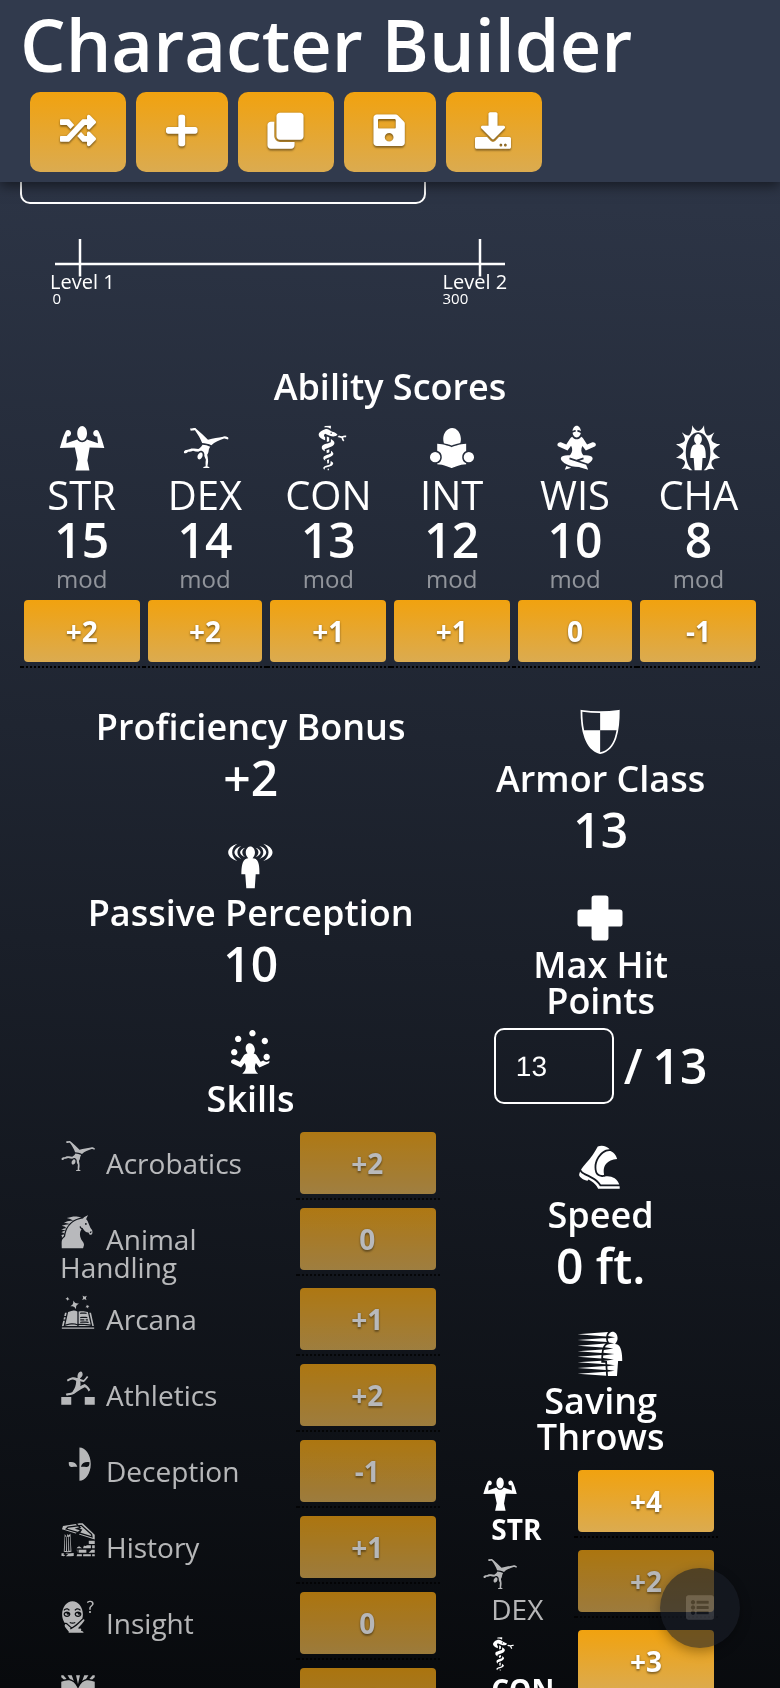
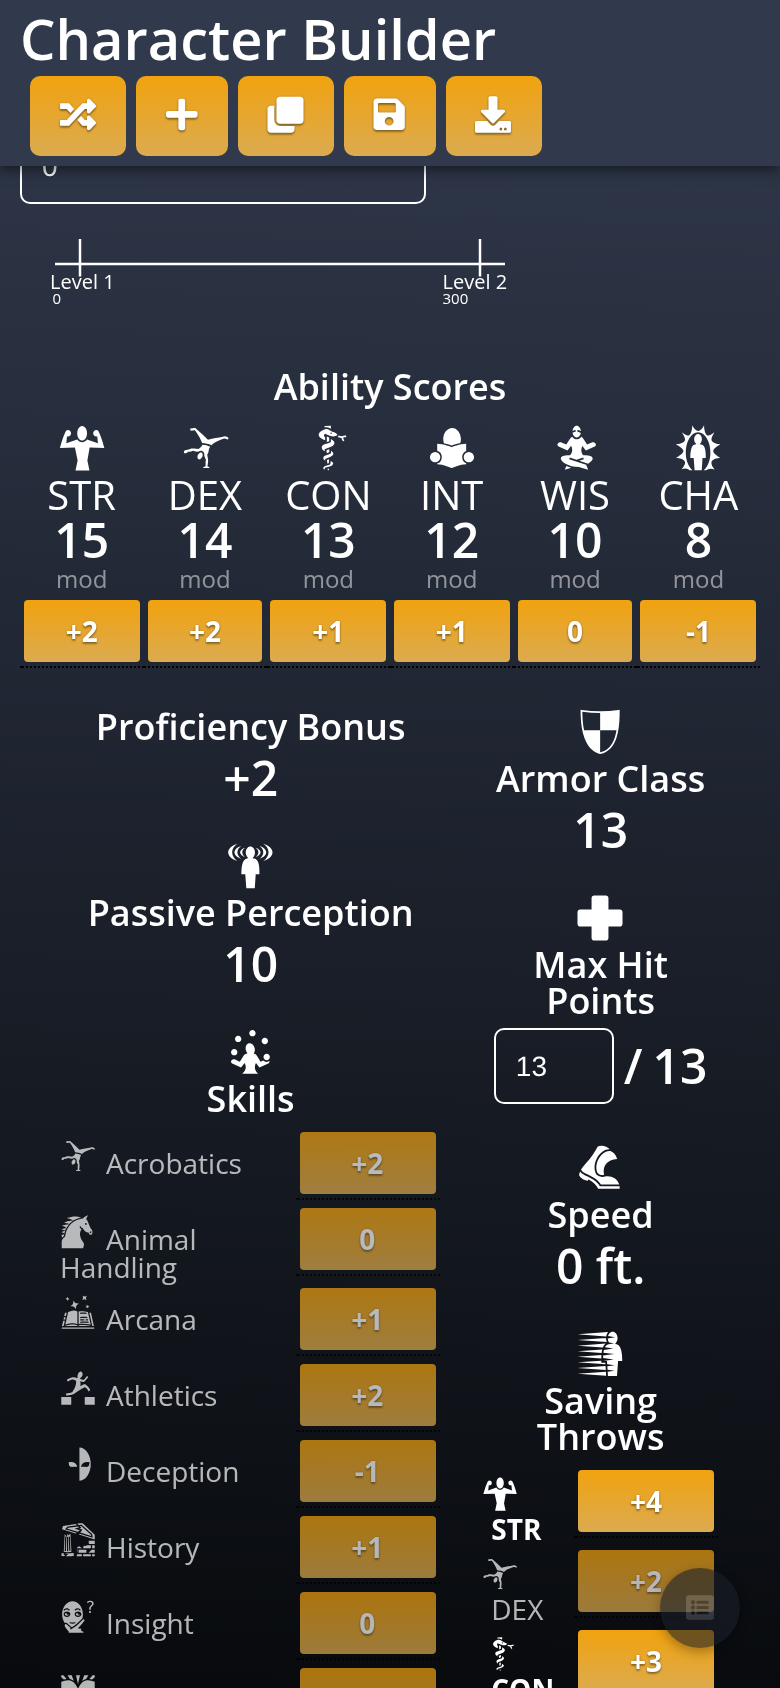
Capture the tidied phone header, and refresh the phone layout shots

Changed region(s): [[0.0308, 0.0, 0.8, 0.1232]]

diff --git a/docs/design/style-guide/round15.html b/docs/design/style-guide/round15.html
@@ -1,0 +1,85 @@
+<title>Phone Header</title>
+<link rel="stylesheet" href="https://fonts.googleapis.com/css2?family=Open+Sans:wght@400;600;700&family=Vollkorn:ital,wght@1,400&display=swap">
+<style>
+/* Layout: one column; each option is a row of real-app captures (desktop, then phone), with a theme switch that swaps every capture at once. */
+:root {
+  --bg: #0e131a; --card: #131924; --fg: #ebeef4; --dim: #8b95a5; --accent: #f0a100;
+  --accent-soft: rgba(240,161,0,0.10); --line: rgba(255,255,255,0.08); --good: #6fbf73; --good-soft: rgba(111,191,115,0.12);
+  --serif: 'Vollkorn', Georgia, serif; --sans: 'Open Sans', system-ui, sans-serif;
+  color-scheme: dark;
+}
+@media (prefers-color-scheme: light) { :root:not([data-theme="dark"]) {
+  --bg: #eef0f3; --card: #fff; --fg: #363636; --dim: #6b7280; --accent: #33658A;
+  --accent-soft: rgba(51,101,138,0.08); --line: rgba(0,0,0,0.10); --good: #2f7d3a; --good-soft: rgba(47,125,58,0.10); color-scheme: light; } }
+:root[data-theme="light"] {
+  --bg: #eef0f3; --card: #fff; --fg: #363636; --dim: #6b7280; --accent: #33658A;
+  --accent-soft: rgba(51,101,138,0.08); --line: rgba(0,0,0,0.10); --good: #2f7d3a; --good-soft: rgba(47,125,58,0.10); color-scheme: light; }
+* { box-sizing: border-box; }
+[hidden] { display: none !important; }
+body { background: var(--bg); color: var(--fg); font: 14px/1.55 var(--sans); }
+.wrap { max-width: 1100px; margin: 0 auto; padding-inline: 20px; padding-block: 28px 64px; display: flex; flex-direction: column; gap: 36px; }
+header { display: flex; flex-wrap: wrap; justify-content: space-between; align-items: end; gap: 16px; border-bottom: 1px solid var(--line); padding-bottom: 18px; }
+h1 { margin: 0; font: italic 400 38px/1.1 var(--serif); }
+.sub { margin: 6px 0 0; color: var(--dim); max-width: 66ch; }
+.cap { font: 600 10px/1 var(--sans); letter-spacing: .16em; text-transform: uppercase; color: var(--dim); }
+.seg { display: inline-flex; border: 1px solid var(--line); border-radius: 6px; overflow: hidden; }
+.seg button { font: 600 12px/1 var(--sans); padding: 9px 14px; background: transparent; color: var(--dim); border: 0; cursor: pointer; }
+.seg button[aria-pressed="true"] { background: var(--accent-soft); color: var(--accent); }
+.seg button:focus-visible { outline: 2px solid var(--accent); outline-offset: -2px; }
+section { display: flex; flex-direction: column; gap: 12px; }
+h2 { margin: 0; font: 700 18px/1.3 var(--sans); display: flex; flex-wrap: wrap; gap: 10px; align-items: center; }
+.rec { font: 700 10px/1 var(--sans); letter-spacing: .12em; text-transform: uppercase; color: var(--good); background: var(--good-soft); padding: 5px 7px; border-radius: 4px; }
+section > p { margin: 0; color: var(--dim); max-width: 70ch; }
+.shots { display: grid; grid-template-columns: minmax(0, 1fr) 260px; gap: 14px; align-items: start; }
+@media (max-width: 760px) { .shots { grid-template-columns: 1fr; } }
+figure { margin: 0; display: flex; flex-direction: column; gap: 6px; min-width: 0; }
+figure img { width: 100%; height: auto; border-radius: 8px; border: 1px solid var(--line); display: block; }
+figcaption { font-size: 12px; color: var(--dim); }
+.ex { display: grid; grid-template-columns: repeat(auto-fit, minmax(240px, 1fr)); gap: 16px; background: var(--card); border: 1px solid var(--line); border-radius: 10px; padding: 16px; }
+.ex figure img { width: 240px; max-width: 100%; }
+ul { margin: 0; padding-left: 18px; display: flex; flex-direction: column; gap: 5px; }
+li::marker { color: var(--accent); }
+.note { background: var(--card); border: 1px solid var(--line); border-radius: 10px; padding: 16px 18px; display: flex; flex-direction: column; gap: 8px; }
+.note h3 { margin: 0; font: 700 14px/1.3 var(--sans); }
+</style>
+
+<style>
+.shot { background: var(--card); border: 1px solid var(--line); border-radius: 10px; padding: 12px; overflow-x: auto; }
+.shot img { display: block; max-width: none; height: auto; }
+.list { display: flex; flex-direction: column; gap: 14px; }
+figcaption b { color: var(--fg); }
+</style>
+<style>
+.rows { display: flex; flex-direction: column; gap: 4px; background: var(--card); border: 1px solid var(--line); border-radius: 10px; padding: 14px 16px; overflow-x: auto; }
+.row { display: grid; grid-template-columns: 170px auto; align-items: center; gap: 12px; }
+.row span { font-size: 12px; color: var(--dim); }
+.row span b { color: var(--fg); }
+.a1 img { width: 600px; image-rendering: pixelated; }
+.a2 img { width: 600px; }
+.s75 img { width: 450px; }
+@media (max-width: 760px) { .row { grid-template-columns: 1fr; gap: 2px; } }
+</style>
+<style>
+.grp { font: 700 12px/1.3 var(--sans); color: var(--fg); margin-bottom: 4px; }
+.row { grid-template-columns: 110px auto; }
+.stack { display: flex; flex-direction: column; gap: 10px; }
+</style>
+<style>
+.phones { display: flex; flex-wrap: wrap; gap: 14px; align-items: flex-start; }
+.phones figure { flex: 0 0 auto; max-width: 100%; }
+.phones img { width: 390px; max-width: 100%; border-radius: 8px; border: 1px solid var(--line); }
+.phones img.w320 { width: 320px; }
+.wide img { width: 100%; border-radius: 8px; border: 1px solid var(--line); }
+</style>
+<div class="wrap">
+  <header><div>
+    <div class="cap">OrcPub · feature/style-guide · b58d2af3</div>
+    <h1>Phone header</h1>
+    <p class="sub">The running branch, dark theme, as a real phone at 390px and 320px, and a desktop at 1280px to show it is unchanged. The tabs share the row evenly with small gaps, the login button and the title stay off the edge, and nothing scrolls sideways.</p>
+  </div></header>
+  <section><h2>Phones</h2><div class="phones">
+    <figure><figcaption><b>390px</b> · iPhone 13</figcaption><img src="round15/phone-390.png" alt="Phone header at 390px"></figure>
+    <figure><figcaption><b>320px</b> · iPhone SE</figcaption><img class="w320" src="round15/phone-320.png" alt="Phone header at 320px"></figure>
+  </div></section>
+  <section><h2>Desktop, 1280px</h2><figure class="wide"><img src="round15/desktop-1280.png" alt="Desktop header at 1280px"></figure></section>
+</div>

diff --git a/docs/design/style-guide/capture-phone-header.js b/docs/design/style-guide/capture-phone-header.js
@@ -1,0 +1,31 @@
+// The phone header (round15.html): 390px and 320px phones, and desktop at 1280 to show it is
+// unchanged. Needs the app on :8890 (prod build) from feature/style-guide. Run from this folder:
+//   NODE_EXTRA_CA_CERTS=/root/.ccr/ca-bundle.crt node capture-phone-header.js
+const { chromium, devices } = require('playwright');
+const SHOTS = [
+  ['phone-390', { ...devices['iPhone 13'] }, 300],
+  ['phone-320', { ...devices['iPhone SE'] }, 300],
+  ['desktop-1280', { viewport: { width: 1280, height: 800 } }, 520],
+];
+(async () => {
+  const fs = require('fs'); const d = fs.readdirSync('/opt/pw-browsers').filter(x => x.startsWith('chromium-') && !x.includes('headless')).pop();
+  const b = await chromium.launch({ executablePath: `/opt/pw-browsers/${d}/chrome-linux/chrome` });
+  for (const [name, context, height] of SHOTS) {
+    const ctx = await b.newContext({ ...context, deviceScaleFactor: 2 });
+    await ctx.addInitScript(() => { try { localStorage.setItem('user', '{:theme "dark-theme"}'); } catch (_) {} });
+    await ctx.route(/fonts\.(googleapis|gstatic)\.com/, async r => r.fulfill({ response: await r.fetch() }));
+    const p = await ctx.newPage();
+    await p.goto('http://localhost:8890/pages/dnd/5e/character-builder', { waitUntil: 'networkidle' });
+    const c = p.locator('#cookie-btn');
+    await c.waitFor({ timeout: 5000 }).then(() => c.click()).catch(() => {});
+    await c.waitFor({ state: 'hidden', timeout: 5000 }).catch(() => {});
+    await p.addStyleTag({ content: '.whats-new-backdrop { display: none !important; }' });
+    await p.evaluate(() => document.fonts.ready); await p.waitForTimeout(400);
+    const w = p.viewportSize().width;
+    const over = await p.evaluate(() => document.documentElement.scrollWidth - innerWidth);
+    console.log(name, 'sideways overflow', over);
+    await p.screenshot({ path: `round15/${name}.png`, clip: { x: 0, y: 0, width: w, height } });
+    await ctx.close();
+  }
+  await b.close();
+})().catch(e => { console.error(e); process.exit(1); });
